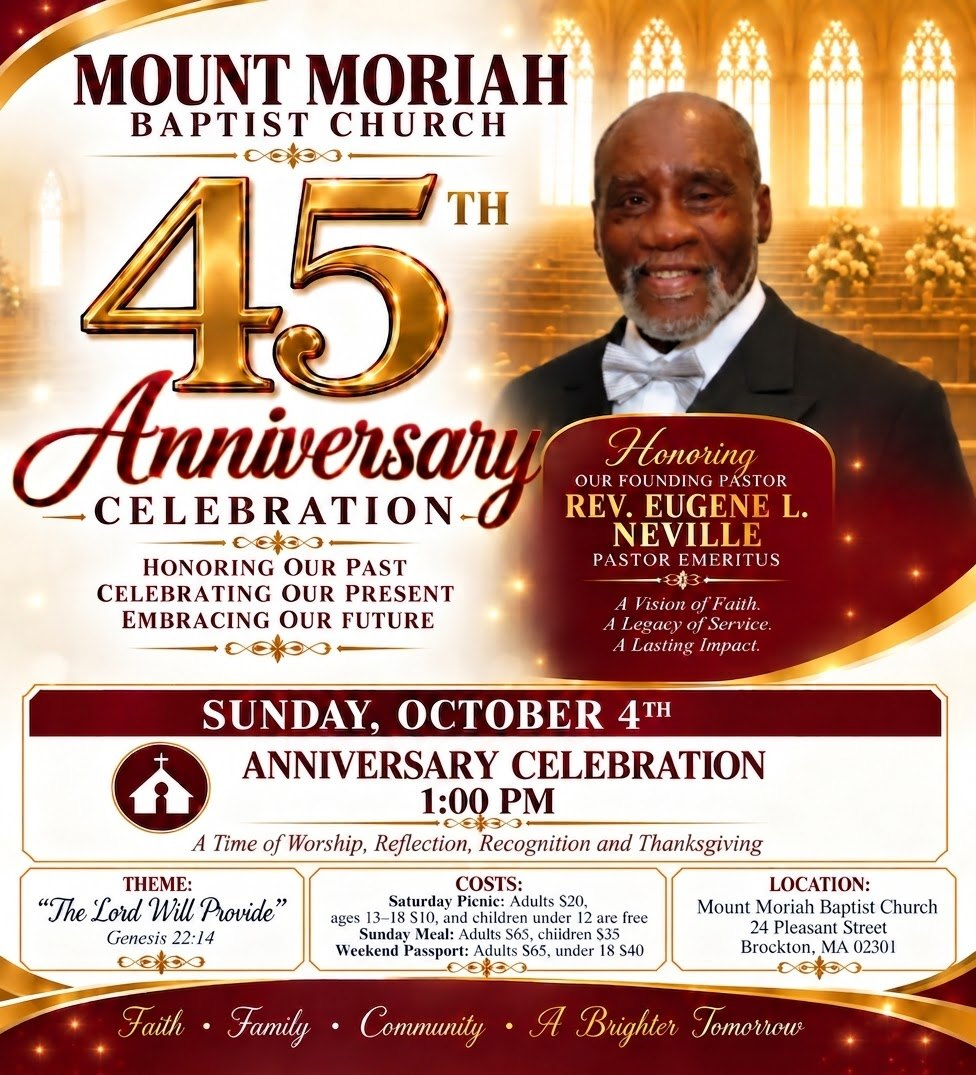
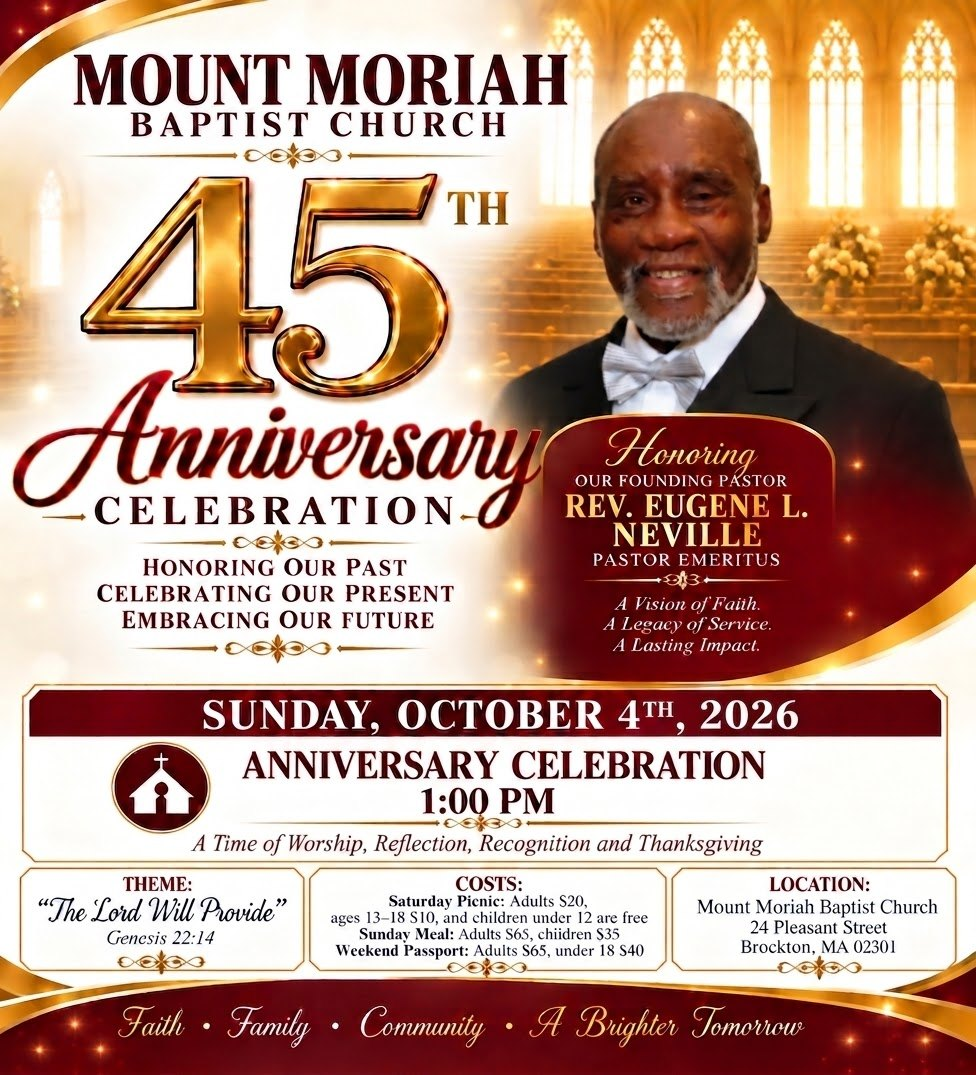
Add the year to the 1:00 PM flyer
The date now reads "SUNDAY, OCTOBER 4TH, 2026". Verified against the
previous file; "Recognition" remains correctly spelled.

Updated the alt text on both instances of this flyer to carry the year
too, so screen-reader users get the same correction as everyone else.

The 10:00 AM service flyer still has no year — action item 25 now tracks
only that one.

Claude-Session: https://claude.ai/code/session_01Crc44jfuuWPXAmCbc9WxeC

diff --git a/index.html b/index.html
@@ -124,7 +124,7 @@
               <a href="assets/flyers/anniversary-service.jpg" data-lightbox
                  aria-label="Open the full-size 1:00 PM Anniversary Celebration flyer">
                 <img src="assets/flyers/anniversary-service-thumb.jpg"
-                     alt="45th Anniversary Celebration flyer: Sunday, October 4th, 1:00 PM, honoring founding pastor Rev. Eugene L. Neville."
+                     alt="45th Anniversary Celebration flyer: Sunday, October 4th, 2026, 1:00 PM, honoring founding pastor Rev. Eugene L. Neville."
                      width="700" height="771" loading="lazy" decoding="async">
               </a>
               <p class="carousel-caption"><span>Sunday, 1:00 PM</span> Celebration &middot; Honoring Rev. Neville</p>
@@ -246,7 +246,7 @@
     <div class="split-media">
       <a href="assets/flyers/anniversary-service.jpg" class="flyer-link" data-lightbox
          aria-label="Open the full-size Anniversary Celebration flyer">
-        <img src="assets/flyers/anniversary-service-thumb.jpg" alt="45th Anniversary Celebration flyer honoring founding pastor Rev. Eugene L. Neville, Pastor Emeritus. Sunday, October 4th, Anniversary Celebration at 1:00 PM, with costs for the Saturday picnic, Sunday meal and weekend passport." width="700" height="771" loading="lazy" decoding="async">
+        <img src="assets/flyers/anniversary-service-thumb.jpg" alt="45th Anniversary Celebration flyer honoring founding pastor Rev. Eugene L. Neville, Pastor Emeritus. Sunday, October 4th, 2026, Anniversary Celebration at 1:00 PM, with costs for the Saturday picnic, Sunday meal and weekend passport." width="700" height="771" loading="lazy" decoding="async">
         <span class="flyer-zoom" aria-hidden="true">View flyer</span>
       </a>
     </div>

diff --git a/docs/ACTION-ITEMS.md b/docs/ACTION-ITEMS.md
@@ -53,7 +53,7 @@ of these actually block that. Those are marked **BLOCKER**.
 | 22 | Confirm **Friday night** start time. | [unassigned] | Sunday morning is now confirmed at 10:00 AM. Friday is still the only unknown time. |
 | ~~23~~ | ~~Walker Park entrance~~ **DONE** — 50 May Ave is the address, **entrance is on Oak Street** (behind the Raymond School). Both now shown on the site. | — | |
 | ~~24~~ | ~~Name~~ **DONE** — "Family Fun Day", described as a picnic-style family reunion. | — | |
-| 25 | Add **2026** to both Sunday flyers before any large print run. | Shayna | **Still outstanding.** The corrected flyer fixed the "Recognition" typo but the date still reads "SUNDAY, OCTOBER 4TH" with no year. |
+| 25 | Add **2026** to the **10:00 AM service flyer**. | Shayna | The 1:00 PM celebration flyer now reads "SUNDAY, OCTOBER 4TH, 2026" — **done**. The 10:00 AM service flyer still has no year. |
 | 26 | Plan the Sunday close-out crew (after the 1:00 PM celebration). | [unassigned] | Explicitly deferred in the meeting. |
 | 26a | **Resolve the Sunday setup window.** With the celebration at 1:00 PM there may be little or no gap after morning worship to turn the auditorium around. Move setup to Saturday evening / early Sunday, or end morning worship earlier. | Anniversary committee | Consequence of the time change — never discussed, because the meeting predates it. See MEETING-NOTES §12. |
 | 26b | Confirm the meal plan suits a **1:00 PM sitting** (lunch, not dinner). | [unassigned] | Quantities and menu differ from a 4:00 PM event. |
